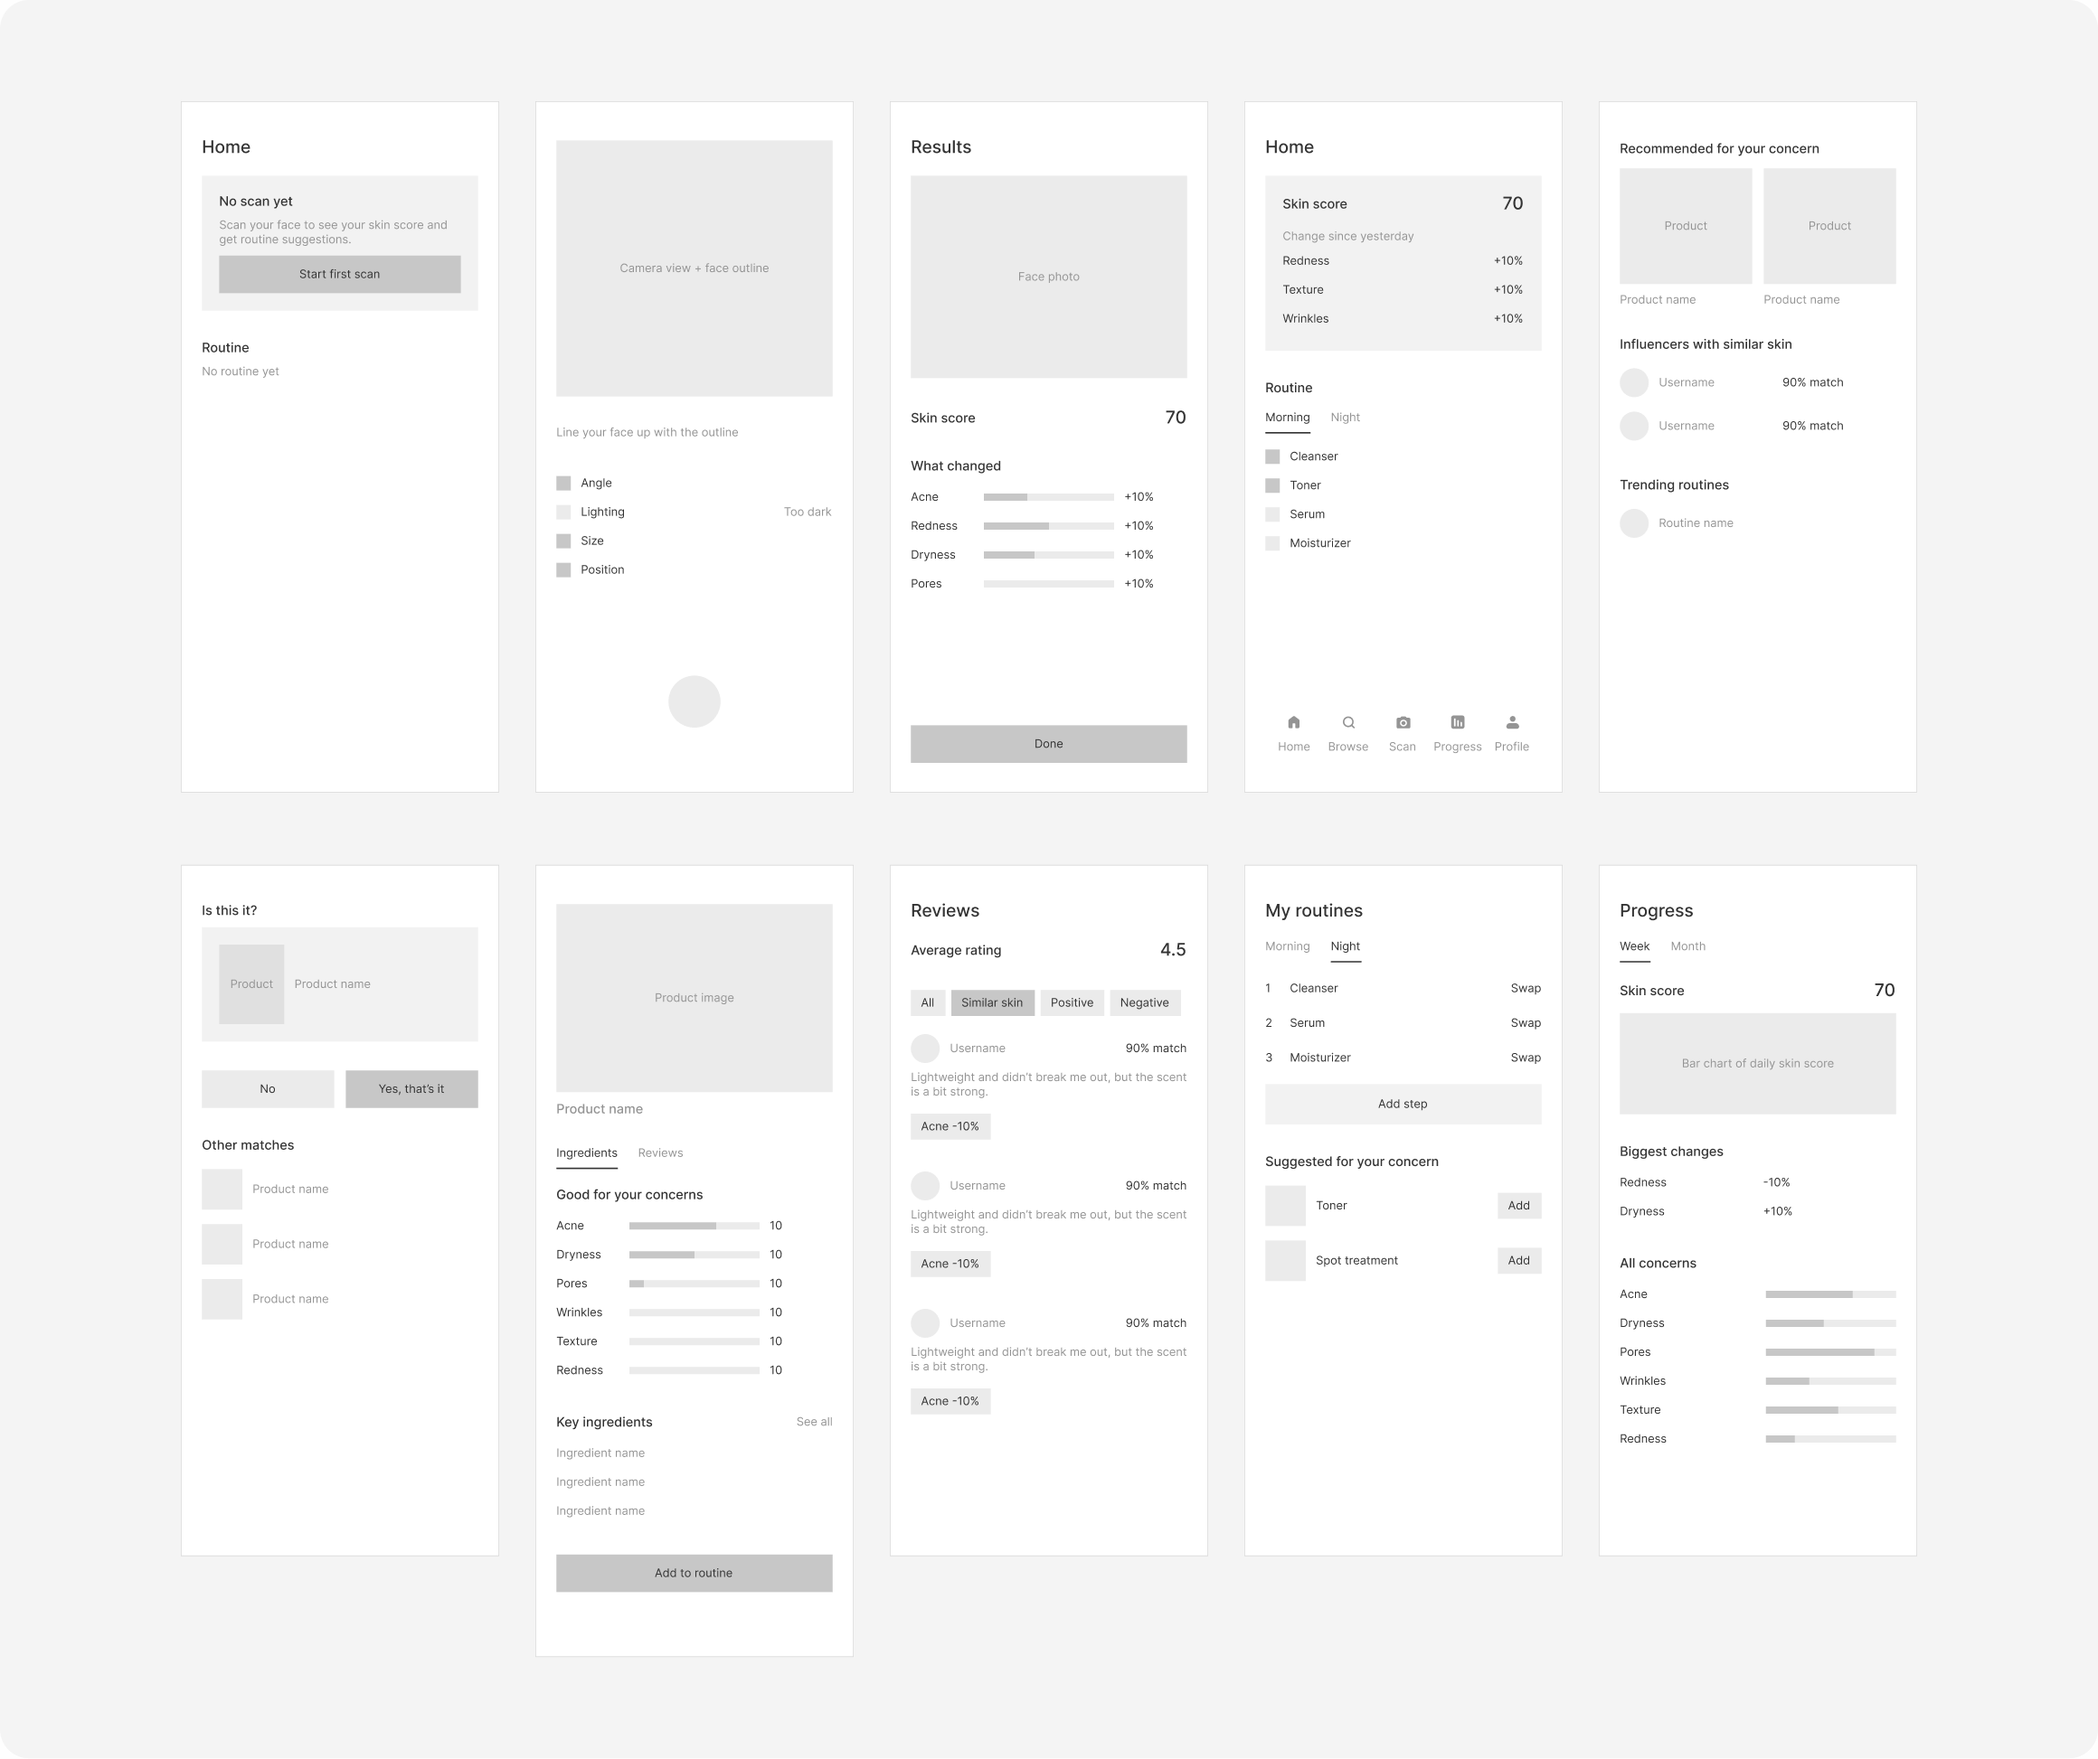
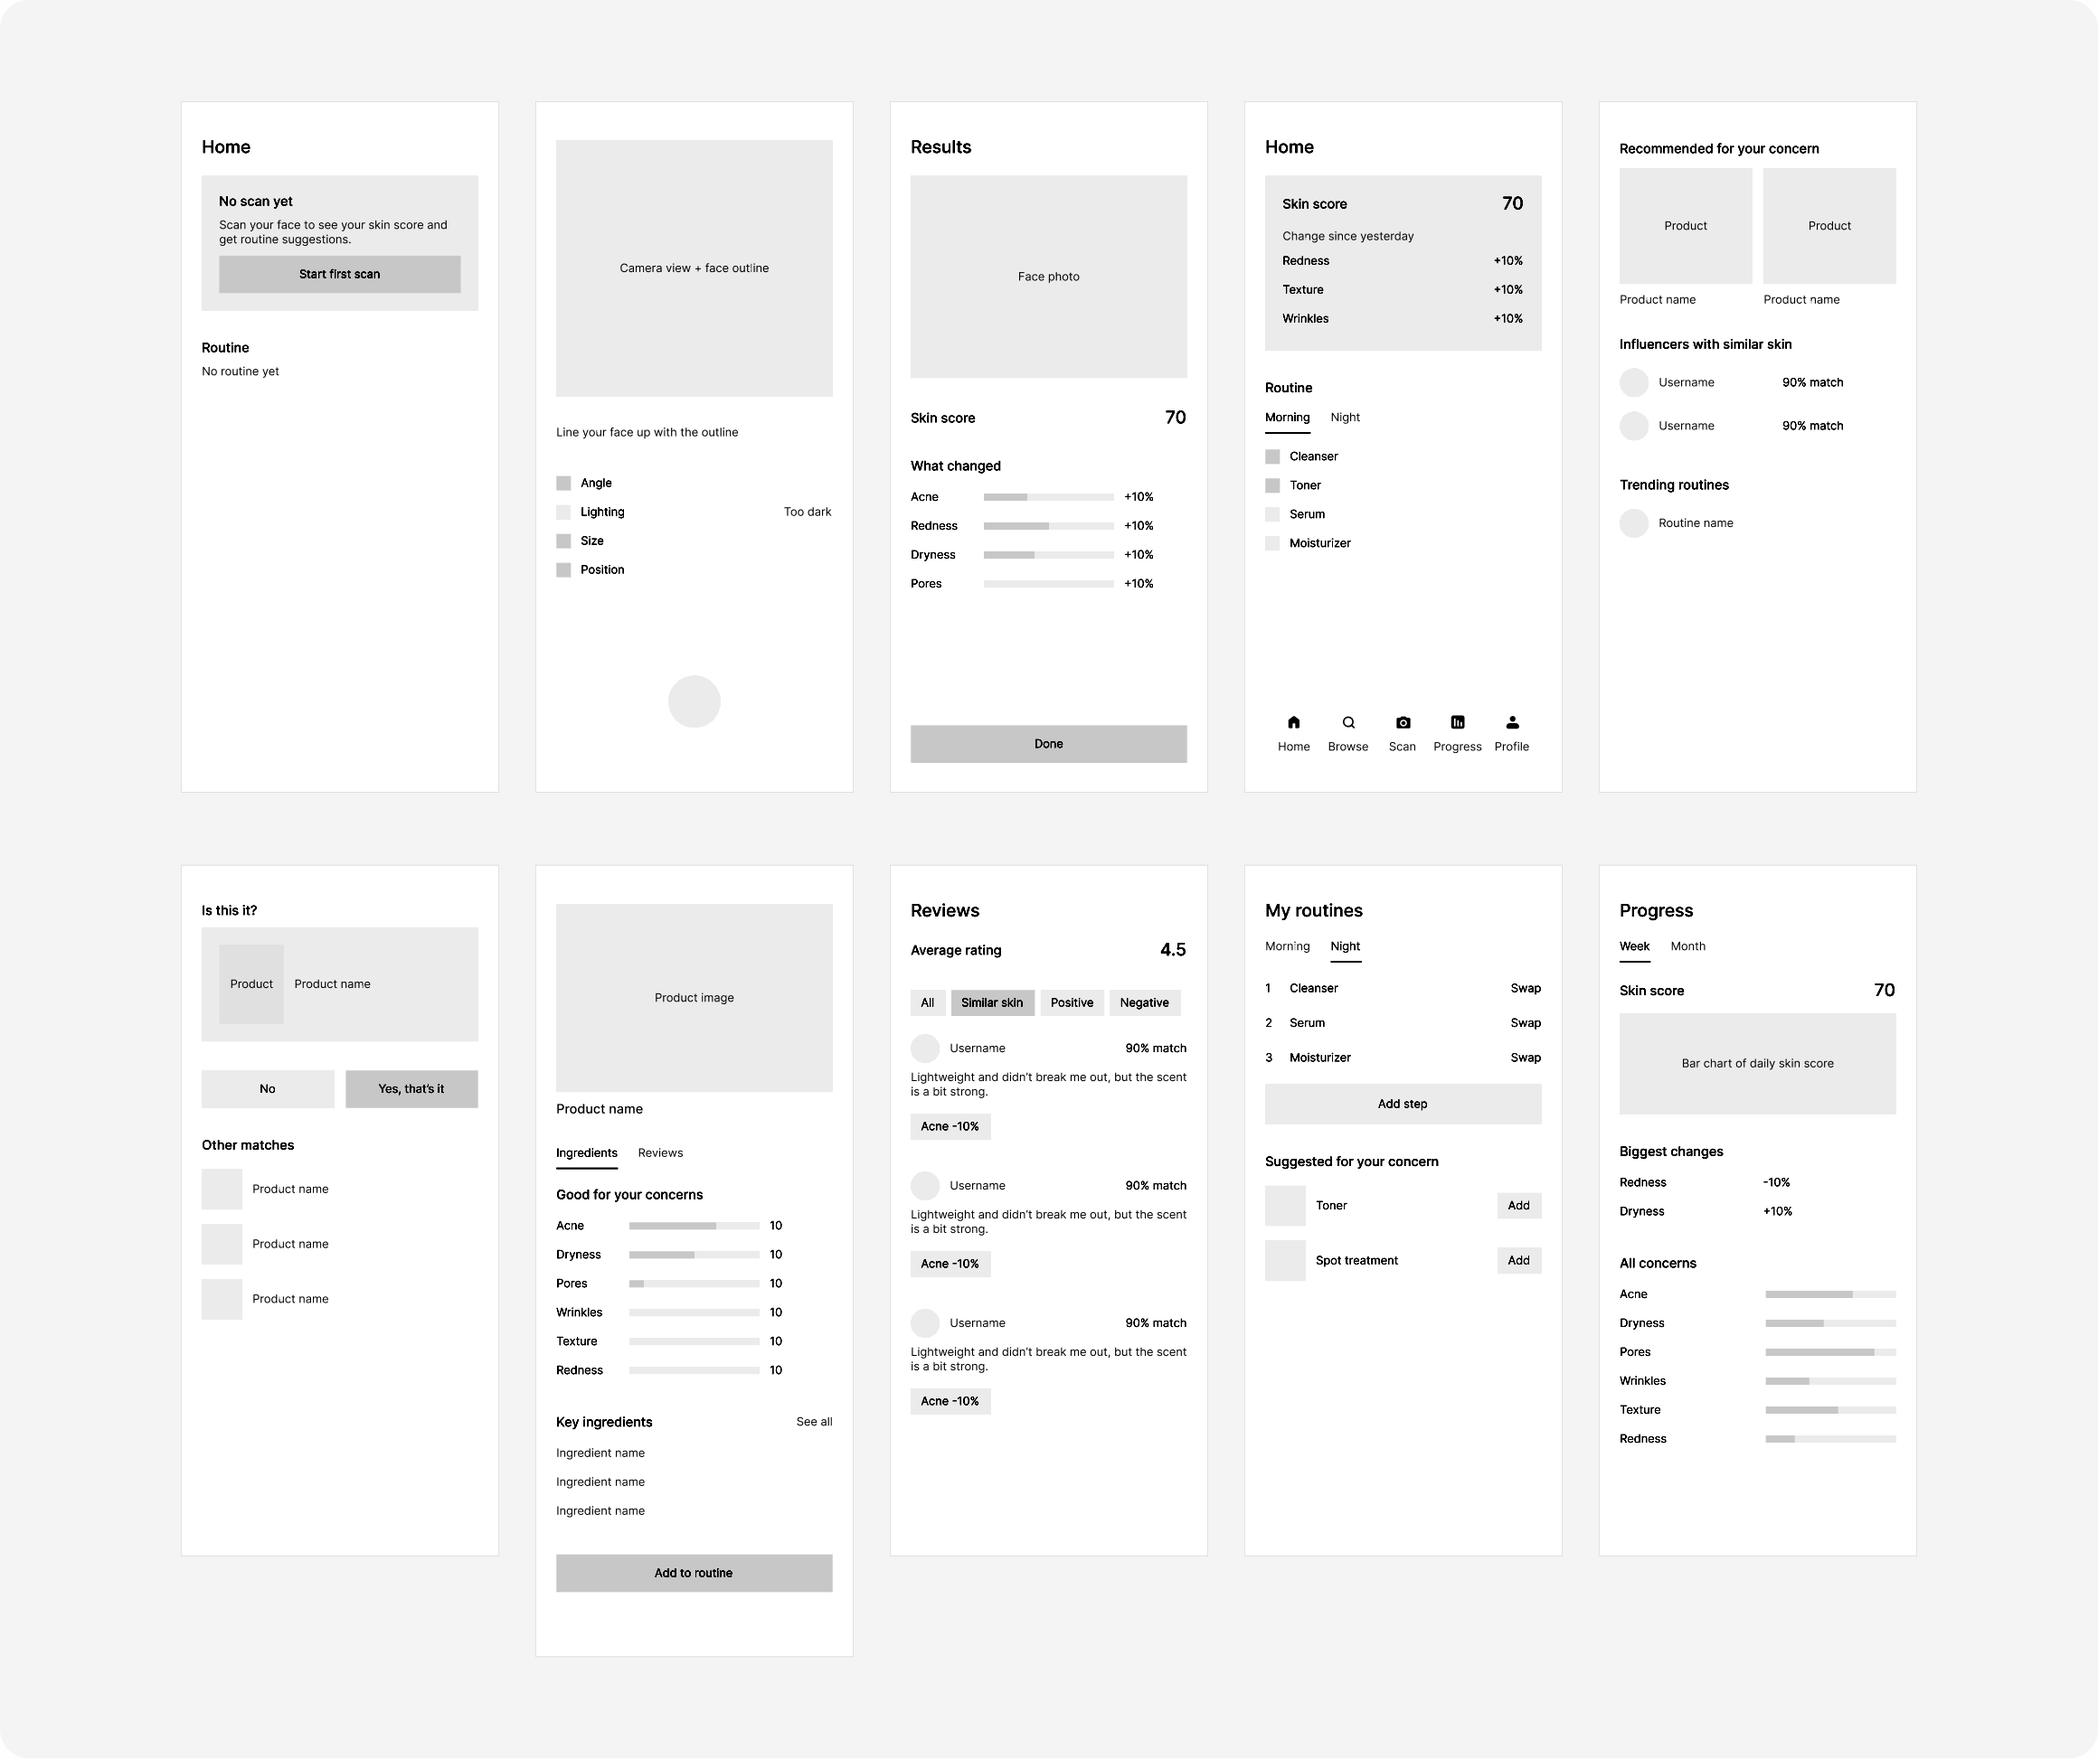
Skyn: wireframes with black text and two greys
Claude-Session: https://claude.ai/code/session_015vF3fknx26ijuPFq6BGXjN

diff --git a/skyn-site/index.html b/skyn-site/index.html
@@ -345,7 +345,7 @@
                 <p class="body">I laid out the main flows in mid-fidelity wireframes: scanning, product lookup, discovery, routines and progress. Keeping them grayscale kept the focus on structure, hierarchy and how each screen leads to the next.</p>
               </div>
             </div>
-            <img class="figure" src="images/wireframes.png?v=7" width="1160" height="973" loading="lazy"
+            <img class="figure" src="images/wireframes.png?v=8" width="1160" height="973" loading="lazy"
               alt="Ten grayscale mid-fidelity wireframes: home before first scan, scanner, scan results, home, browse, product scan result, product detail, reviews, my routines and progress">
           </div>
 
